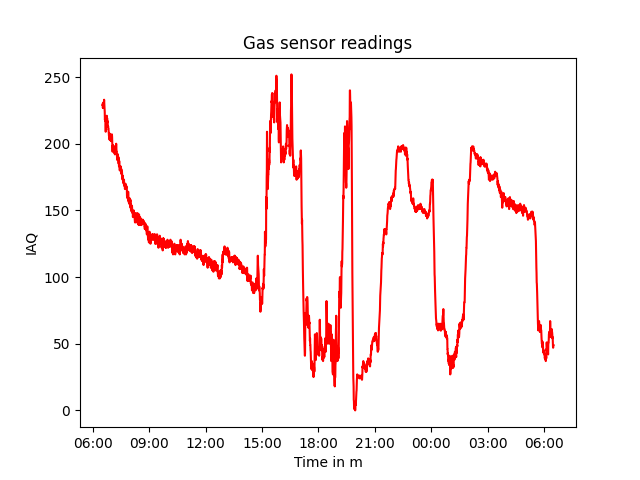
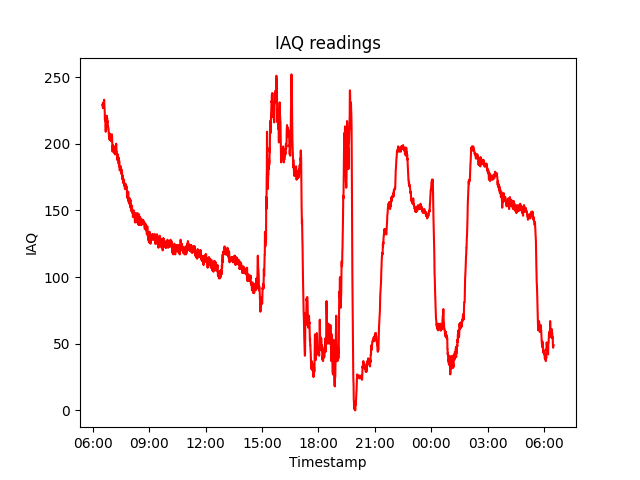
task3

Changed region(s): [[0.375, 0.0625, 0.6562, 0.125], [0.4375, 0.9375, 0.5625, 0.9688]]

diff --git a/Module_3/Task3/task3.py b/Module_3/Task3/task3.py
@@ -95,22 +95,11 @@ xformatter = mdates.DateFormatter('%H:%M')
 plt.figure(1)
 plt.plot( x_range , iaq, color = 'red')
 plt.rcParams["figure.autolayout"] = True
-plt.xlabel('Time in m')
+plt.xlabel('Timestamp')
 plt.ylabel("IAQ" )
-plt.title('Gas sensor readings')
+plt.title('IAQ readings')
 plt.gcf().axes[0].xaxis.set_major_formatter(xformatter)
 plt.savefig('new'+'IAQ' )
 
-
-plt.show() 
-
-plt.figure(2)
-plt.plot(range , co2 , color = 'blue')
-plt.rcParams["figure.autolayout"] = True
-plt.xticks(np.arange(0,25))
-plt.xlabel('Time in s')
-plt.ylabel("Co2" )
-plt.title('Gas sensor readings')
-plt.savefig(ex_name+'co2')
 
 plt.show() 
